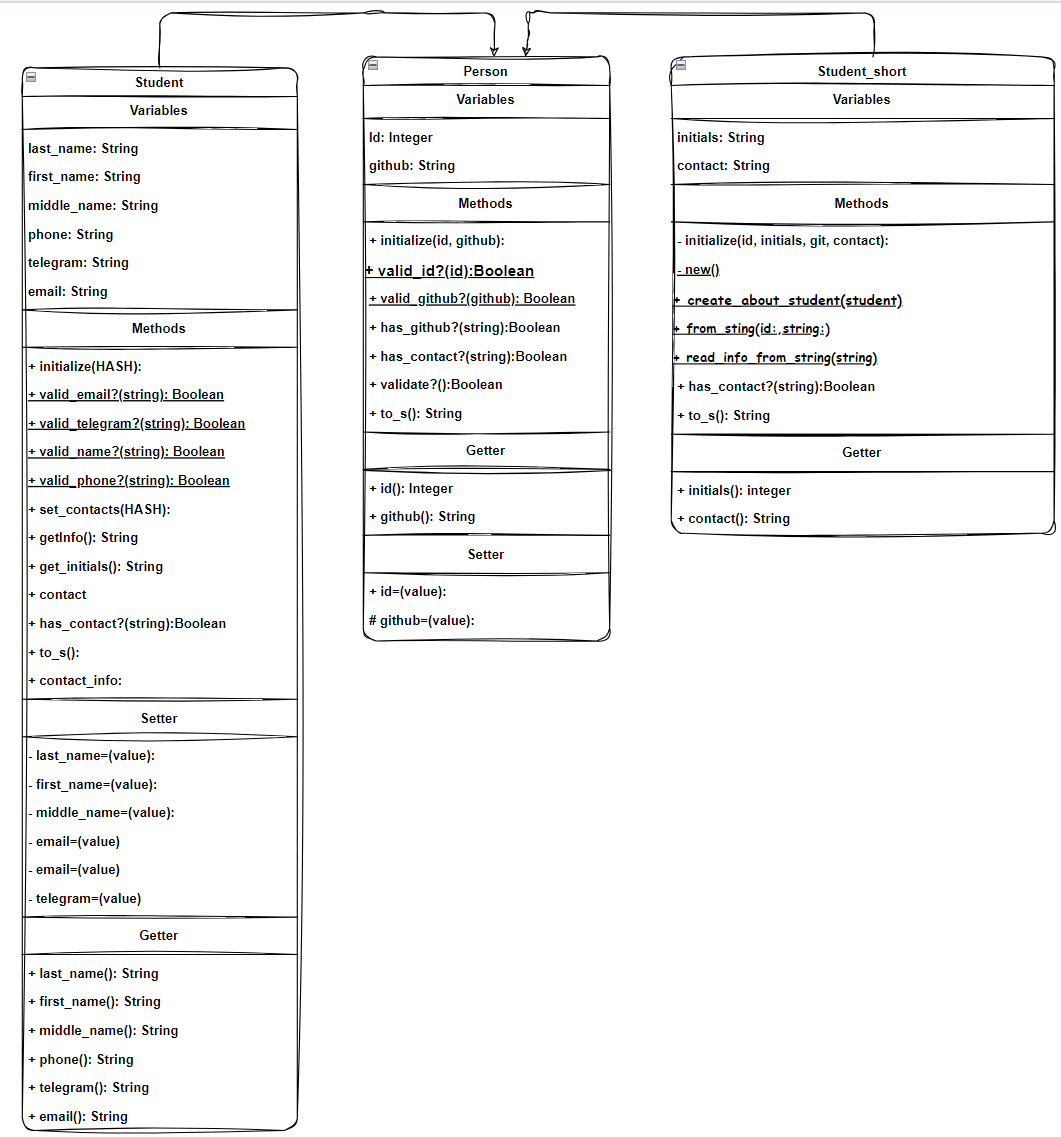
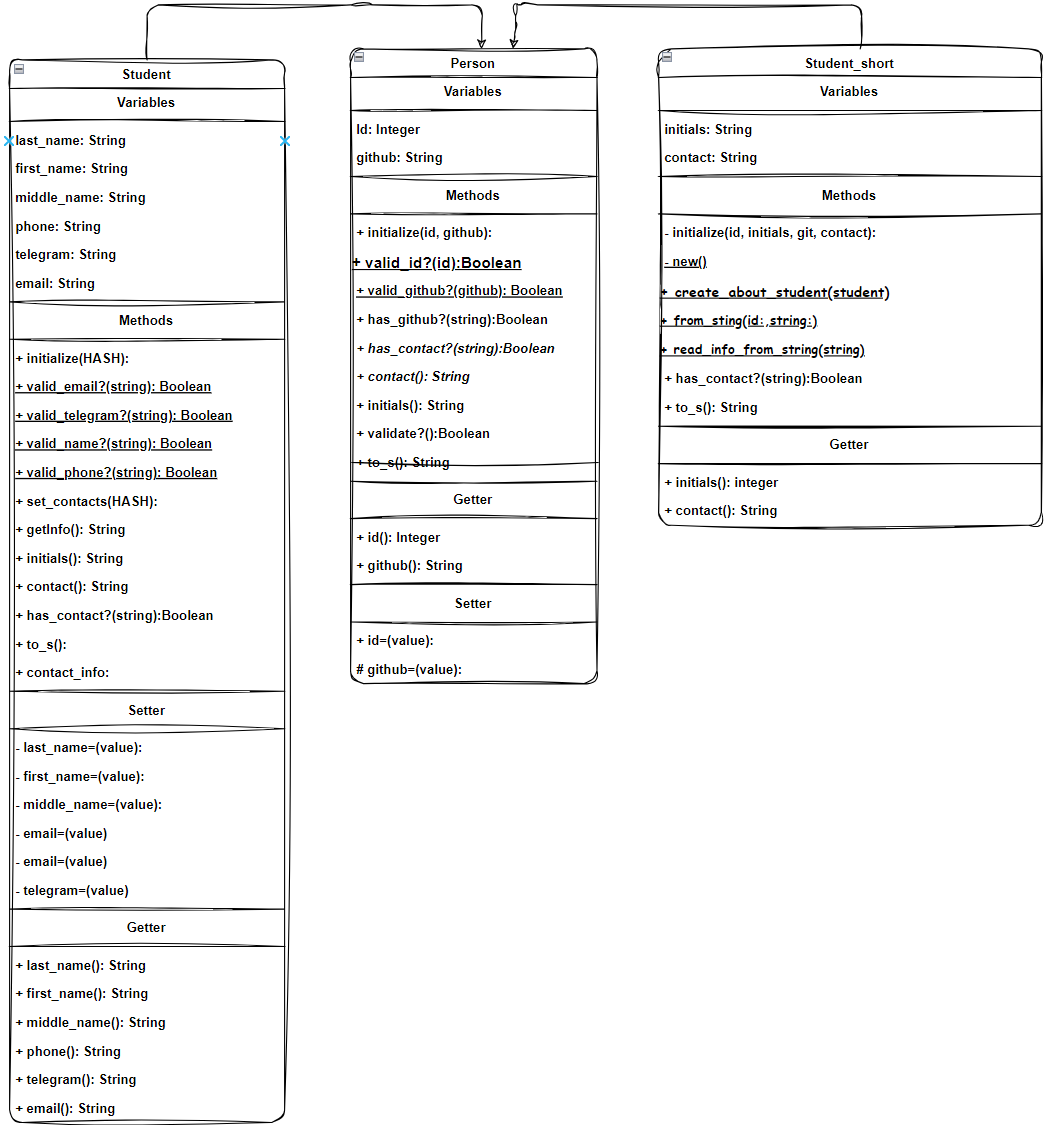
|Lab№2|Delete double code|

Changed region(s): [[0.0, 0.0, 1.0, 1.0]]

diff --git a/Student_Records/person.rb b/Student_Records/person.rb
@@ -1,6 +1,6 @@
 # Базовый класс для студентов
 class Person
-  attr_reader :id, :github
+  attr_reader :initials, :contact
 
   def initialize(id:, github: nil)
     self.id = id
@@ -29,6 +29,15 @@ class Person
 
   def has_contact?
     raise NotImplementedError, "Метод has_contact? должен быть реализован в классе наследнике"
+  end
+
+  
+   def contact
+    raise NotImplementedError, "Метод contact должен быть реализован в классе-наследнике"
+  end
+
+  def initials
+    raise NotImplementedError, "Метод contact должен быть реализован в классе-наследнике"
   end
 
   def has_github?

diff --git a/Student_Records/student.rb b/Student_Records/student.rb
@@ -77,13 +77,13 @@ class Student < Person
   end
 
   # Метод для получения скоращение имени
-  def get_initials
+  def initials
     middle_initial = @middle_name ? "#{@middle_name[0]}." : ""
     "#{@last_name} #{@first_name[0]}.#{middle_initial}"
   end
 
   # Метод для нахождения первого контакта
-  def get_first_contact
+  def contact
     [@phone, @telegram, @email].find { |contact| contact && !contact.empty? }
   end
 
